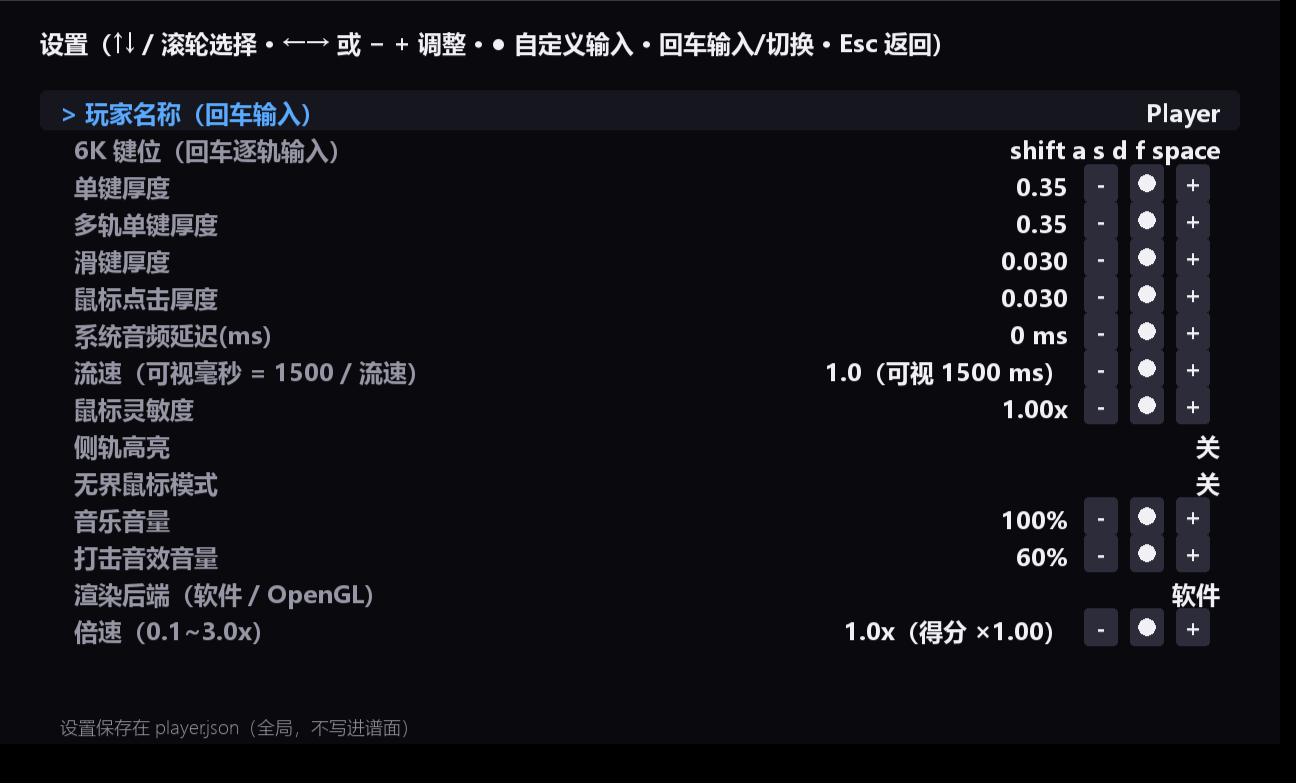
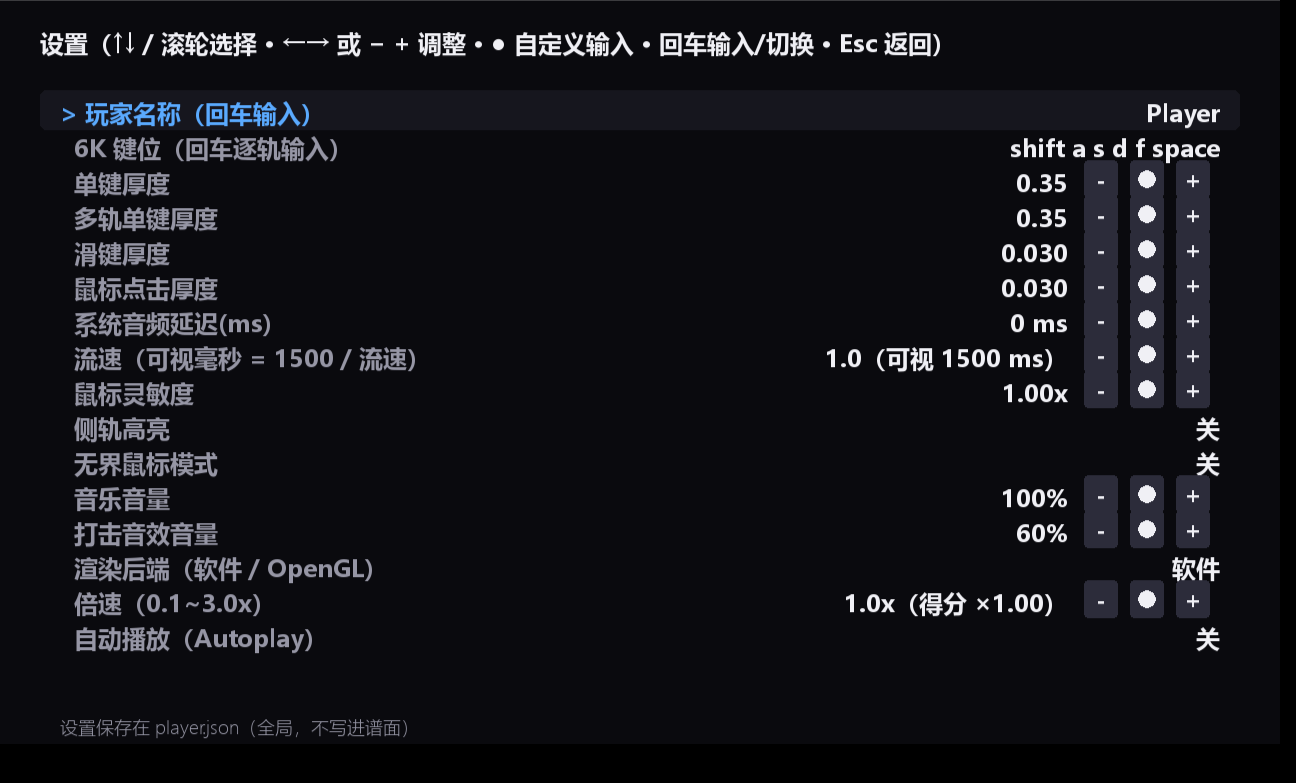
feat(player): 自动播放（玩家名 Autoplay / 输入只做高亮与指针 / 过线全 EXACT / 分数倍率 -1x）+ 结算显示准度（三位小数）

Changed region(s): [[0.0309, 0.1533, 0.3395, 0.8582], [0.6173, 0.1839, 0.9568, 0.8276]]

diff --git a/src/rhythm_editor/game/app.py b/src/rhythm_editor/game/app.py
@@ -665,6 +665,7 @@ class PlayerApp:
         ("hit_volume", "打击音效音量"),
         ("renderer", "渲染后端（软件 / OpenGL）"),
         ("rate", "倍速（0.1~3.0x）"),
+        ("autoplay", "自动播放（Autoplay）"),
     )
     # 数字类选项（有 − / ● / + 三个按钮；点 ● 可以自定义输入）：字段名 -> (最小, 最大, 步进)
     NUMERIC_ROWS = {
@@ -679,7 +680,7 @@ class PlayerApp:
         "hit_volume": (0.0, 1.0, 0.05),
         "rate": (psettings.RATE_MIN, psettings.RATE_MAX, psettings.RATE_STEP),
     }
-    TOGGLE_ROWS = ("side_lane_highlight", "unbounded_mouse")
+    TOGGLE_ROWS = ("side_lane_highlight", "unbounded_mouse", "autoplay")
 
     def _row_key(self, index: Optional[int] = None) -> str:
         return self.SETTING_ROWS[self.settings_row if index is None else index][0]
@@ -724,6 +725,8 @@ class PlayerApp:
             return f"{s.hit_volume * 100:.0f}%"
         if key == "renderer":
             return "OpenGL（切换即生效）" if s.renderer == "opengl" else "软件"
+        if key == "autoplay":
+            return "开（判定全 EXACT · 分数 ×-1）" if s.autoplay else "关"
         return f"{s.rate:.1f}x（得分 ×{s.rate ** 1.5:.2f}）"
 
     def _event_settings(self, event) -> None:
@@ -969,7 +972,9 @@ class PlayerApp:
     # ------------------------------------------------------------ 游玩
     def _start_play(self) -> None:
         assert self.chart is not None
-        self.judge = Judge(self.chart, rate=self.settings.rate)
+        self.judge = Judge(
+            self.chart, rate=self.settings.rate, autoplay=self.settings.autoplay
+        )
         self.pressed_lanes.clear()
         self.paused = False
         self.ending = False
@@ -1060,8 +1065,10 @@ class PlayerApp:
                 if event.key == key_code(name)
             ]
             if matched:
-                # 同一个键绑了多条轨道时都算按下，但**一次按键最多判一个**物件
+                # 同一个键绑了多条轨道时都算按下（自动播放时只用于轨道高亮）
                 self.pressed_lanes.update(matched)
+                if self.settings.autoplay:
+                    return                    # 自动播放：输入不参与判定
                 now = self._now_ms()
                 for lane in matched:
                     result = self.judge.on_press(now, lane=lane)
@@ -1085,7 +1092,7 @@ class PlayerApp:
                     self.pressed_lanes.discard(lane)
         elif event.type == pygame.MOUSEBUTTONDOWN:
             # 鼠标点击按键：**左右键都可以**（滚轮 4/5 不算）
-            if event.button in (1, 3):
+            if event.button in (1, 3) and not self.settings.autoplay:
                 self._register(self.judge.on_press(self._now_ms(), x=self.mouse_norm))
 
     def _register(self, result) -> None:
@@ -1099,6 +1106,10 @@ class PlayerApp:
             note = self.judge.notes.get(getattr(result, "note_id", ""))
         x, y = self._popup_anchor(note)
         self.popups.append((result.grade, result.grade, 0.7, x, y))
+
+    def _player_label(self) -> str:
+        """玩家名：开启自动播放时显示为 ``Autoplay``。"""
+        return "Autoplay" if self.settings.autoplay else self.settings.player_name
 
     def _popup_anchor(self, note: Optional[Note]) -> Tuple[float, float]:
         """判定飘字锚点：单键 / 多轨在 6K 线上，鼠标物件在鼠标线上（瞬时物件也要有字符）。"""
@@ -1137,7 +1148,8 @@ class PlayerApp:
             assert self.judge is not None
             now_ms = self._now_ms()
             # 滑键是在鼠标移动时判定的：返回值必须登记，否则滑键没有判定文字 / 音效
-            self._register(self.judge.on_move(now_ms, self.mouse_norm))
+            if not self.settings.autoplay:
+                self._register(self.judge.on_move(now_ms, self.mouse_norm))
             for result in self.judge.update(
                 now_ms, inside_hold=self._inside_region(now_ms), held=set(self.pressed_lanes)
             ):
@@ -1415,7 +1427,7 @@ class PlayerApp:
         self.center_text(f"{meta.title} · {meta.artist}", 240, self.f_mid, WHITE)
         self.center_text(f"难度：{meta.difficulty_name} {meta.difficulty_level}", 280, self.f_small, DIM)
         self.center_text(f"初始 BPM：{self.chart.timing.bpm_at(0.0):.2f}", 310, self.f_small, DIM)
-        self.center_text(f"玩家：{self.settings.player_name}", 340, self.f_small, ACCENT)
+        self.center_text(f"玩家：{self._player_label()}", 340, self.f_small, ACCENT)
         self.center_text("第 0 拍将在 1.5 秒后到达判定平面", 400, self.f_small, DIM)
 
     # -------------------------------------------------- 3D 世界与物件
@@ -1883,14 +1895,14 @@ class PlayerApp:
         left_lines = (
             f"{meta.title} · {meta.artist}",
             f"难度 {meta.difficulty_name} {meta.difficulty_level} · BPM {self.chart.timing.bpm_at(beat):.2f}",
-            f"玩家 {self.settings.player_name}",
+            f"玩家 {self._player_label()}",
         )
         for index, line in enumerate(left_lines):
             self.text(line, (24, 16 + index * 26), self.f_small, WHITE if index == 0 else DIM)
         counts = self.judge.counts
         right_lines = (
-            f"准度 {self.judge.accuracy * 100:.1f}% · 倍速 {self.settings.rate:.1f}x",
-            f"分数 {self.judge.score}（×{self.settings.rate ** 1.5:.2f}）",
+            f"准度 {self.judge.accuracy * 100:.3f}% · 倍速 {self.settings.rate:.1f}x",
+            f"分数 {self.judge.score}（×{self.judge.score_multiplier:.2f}）",
             f"连击 {self.judge.combo}（最大 {self.judge.max_combo}）",
             "  ".join(f"{grade} {counts[grade]}" for grade in GRADES),
         )
@@ -1917,7 +1929,7 @@ class PlayerApp:
             meta.title,
             meta.artist,
             f"{meta.difficulty_name} {meta.difficulty_level}",
-            f"玩家：{self.settings.player_name}",
+            f"玩家：{self._player_label()}",
         )
         for index, line in enumerate(left_lines):
             self.text(line, (40, 140 + index * 34), self.f_mid, WHITE if index == 0 else DIM)
@@ -1943,7 +1955,7 @@ class PlayerApp:
             ACCENT,
         )
         self.text(
-            f"判定数：{self.judge.judged_notes} / {self.judge.total_notes}",
+            self._result_accuracy_line(),
             (split + 40, 258),
             self.f_small,
             DIM,
@@ -1989,8 +2001,15 @@ class PlayerApp:
         return f"最大连击：{self.judge.max_combo} / {self.judge.total_notes}"
 
     def _result_rate_line(self) -> str:
-        """倍速 —— 放在最大连击后面。"""
+        """倍速（自动播放时注明分数倍率 -1x）—— 放在最大连击后面。"""
+        if self.settings.autoplay:
+            return f"倍速：{self.settings.rate:.1f}x（Autoplay · 分数倍率 -1x）"
         return f"倍速：{self.settings.rate:.1f}x"
+
+    def _result_accuracy_line(self) -> str:
+        """准度（取代原来的“判定数 a / 总数”）。"""
+        assert self.judge is not None
+        return f"准度：{self.judge.accuracy * 100:.3f}%"
 
     def _event_result(self, event) -> None:
         if event.type == pygame.MOUSEMOTION:

diff --git a/src/rhythm_editor/game/judge.py b/src/rhythm_editor/game/judge.py
@@ -110,11 +110,19 @@ class _IntervalState:
 class Judge:
     """一张谱面的判定状态机（按“听到的歌曲毫秒”推进）。"""
 
-    def __init__(self, chart: Chart, hit_sound=None, rate: float = 1.0) -> None:
+    def __init__(
+        self,
+        chart: Chart,
+        hit_sound=None,
+        rate: float = 1.0,
+        autoplay: bool = False,
+    ) -> None:
         self.chart = chart
         self.timing = chart.timing
         # 倍速：只影响分数倍率（分数 = 当前计分 × 倍速^1.5），不影响判定窗口
         self.rate = min(RATE_MAX, max(RATE_MIN, float(rate)))
+        # 自动播放：不吃输入，物件 / 判定区间完全过线时自动判 EXACT；分数倍率固定 -1
+        self.autoplay = bool(autoplay)
         self.results: List[Judged] = []
         self.notes: Dict[str, Note] = {n.id: n for n in chart.all_notes()}
         self._counts: Dict[str, int] = {g: 0 for g in GRADES}
@@ -261,8 +269,13 @@ class Judge:
 
     @property
     def score(self) -> int:
-        """最终分数 = 基础计分 × **倍速的 1.5 次方**（1.0x 时与原来一致）。"""
-        return int(round(self.base_score * (self.rate ** 1.5)))
+        """最终分数 = 基础计分 × 分数倍率（自动播放为 -1 倍）。"""
+        return int(round(self.base_score * self.score_multiplier))
+
+    @property
+    def score_multiplier(self) -> float:
+        """分数倍率：正常是倍速^1.5；**自动播放固定 -1 倍**。"""
+        return -1.0 if self.autoplay else (self.rate ** 1.5)
 
     @property
     def break_count(self) -> int:
@@ -344,6 +357,15 @@ class Judge:
             note = state.note
             if state.done:
                 continue
+            if self.autoplay:
+                # 自动播放：物件到达判定线即判 EXACT（不需要输入）
+                judge_ms = self.timing.beat_to_song_ms(getattr(note, "head_beat", 0.0))
+                if now_ms >= judge_ms:
+                    state.done = True
+                    out.append(
+                        self._judge_result(note.id, EXACT, getattr(note, "head_beat", 0.0))
+                    )
+                continue
             judge_ms = self.timing.beat_to_song_ms(getattr(note, "head_beat", 0.0))
             if now_ms - judge_ms > WINDOW_NEAR_MS and not isinstance(note, MouseSlide):
                 state.done = True
@@ -387,7 +409,11 @@ class Judge:
                 end_ms = min(end_ms, self.timing.beat_to_song_ms(state.end_beat))
             if now_ms < end_ms:
                 break
-            out.append(self._grade_interval(state, start_ms, end_ms, start_beat))
+            if self.autoplay:
+                # 自动播放：判定区间完全过线即 EXACT
+                out.append(self._judge_result(state.note.id, EXACT, start_beat))
+            else:
+                out.append(self._grade_interval(state, start_ms, end_ms, start_beat))
             state.index += 1
         return out
 

diff --git a/tests/test_game_app.py b/tests/test_game_app.py
@@ -334,6 +334,54 @@ class PlayerAppSmokeTests(unittest.TestCase):
                 app_module.time.perf_counter = original_perf
         app.settings.rate = 1.0
 
+    def test_autoplay_judges_exact_and_scores_negative(self) -> None:
+        """自动播放：玩家名显示 Autoplay、输入不判定（只高亮）、过线全 EXACT、分数倍率 -1x。"""
+        from rhythm_editor.game.app import key_code
+        from rhythm_editor.model.notes import LaneNote, MouseClick
+
+        app = self.app
+        app.settings_row = app._row_index("autoplay")
+        app._adjust_setting(1)
+        self.assertTrue(app.settings.autoplay, "设置里可以开启自动播放")
+        app._enter_loading()
+        chart = app.chart
+        app._start_play()
+        self.assertTrue(app.judge.autoplay)
+        self.assertEqual(app._player_label(), "Autoplay")
+        # 键盘输入不再判定，但轨道高亮照常
+        tap = next(n for n in chart.all_notes() if isinstance(n, LaneNote) and not n.is_hold)
+        hit_ms = chart.timing.beat_to_song_ms(tap.head_beat)
+        app._now_ms = lambda: hit_ms - 500.0          # 提前按，依然不该判
+        pygame = self.pygame
+        app._event_play(
+            pygame.event.Event(pygame.KEYDOWN, key=key_code(app.settings.keys[tap.lane_start]), unicode="")
+        )
+        self.assertIn(tap.lane_start, app.pressed_lanes, "轨道高亮仍然要有")
+        self.assertEqual(app.judge.judged_notes, 0, "自动播放时键盘不参与判定")
+        app._event_play(
+            pygame.event.Event(pygame.MOUSEBUTTONDOWN, button=1, pos=(400, 300))
+        )
+        self.assertEqual(app.judge.judged_notes, 0, "自动播放时鼠标点击不参与判定")
+        # 时间推到曲末：所有物件 / 区间自动 EXACT
+        last_ms = max(
+            chart.timing.beat_to_song_ms(getattr(n, "tail_beat", n.head_beat))
+            for n in chart.all_notes()
+        )
+        app._now_ms = lambda: last_ms + 5000.0
+        app._update(1 / 120)
+        self.assertEqual(app.judge.counts["Break"], 0)
+        self.assertEqual(app.judge.counts["EXACT"], app.judge.total_notes)
+        self.assertEqual(app.judge.score, -app.judge.base_score)
+        self.assertAlmostEqual(app.judge.score_multiplier, -1.0)
+        # 结算页：倍速行注明 -1x，判定数换成准度
+        app._finish()
+        self.assertIn("-1x", app._result_rate_line())
+        self.assertIn("准度", app._result_accuracy_line())
+        self.assertRegex(app._result_accuracy_line(), r"准度：\d+\.\d{3}%", "准度保留三位小数")
+        self.assertEqual(app._player_label(), "Autoplay")
+        app._draw()
+        app.settings.autoplay = False
+
     def test_prompt_accepts_text_input_and_key_capture(self) -> None:
         """文字输入走 TEXTINPUT（中文可输入）；键位改为“按下想设的键”。"""
         app = self.app

diff --git a/tests/test_game_judge.py b/tests/test_game_judge.py
@@ -179,6 +179,26 @@ class RegionJudgeTests(unittest.TestCase):
 
 
 class ScoreTests(unittest.TestCase):
+    def test_autoplay_scores_negative_and_judges_exact(self) -> None:
+        """自动播放：完全过线即 EXACT（含区间），分数倍率固定 -1x。"""
+        chart = make_chart([LaneNote("L1", 0, 0, 2.0), MouseClick("M1", 2.0, 0.5, 0.1)])
+        judge = Judge(chart, autoplay=True)
+        self.assertTrue(judge.autoplay)
+        self.assertAlmostEqual(judge.score_multiplier, -1.0)
+        hit_ms = chart.timing.beat_to_song_ms(2.0)
+        judge.update(0.0)
+        self.assertEqual(judge.judged_notes, 0, "还没到判定时间不该提前判")
+        judge.update(hit_ms)
+        self.assertEqual(judge.counts[EXACT], 2, "物件过线即 EXACT（不需要输入）")
+        self.assertEqual(judge.counts[BREAK], 0)
+        self.assertEqual(judge.score, -judge.base_score)
+        # 长按 / 空域的每个判定区间也全部 EXACT
+        chart2 = make_chart([LaneNote("H1", 0, 0, 0.0, 3.0), MouseRegion("R1", 0.0, 3.0)])
+        judge2 = Judge(chart2, autoplay=True)
+        judge2.update(chart2.timing.beat_to_song_ms(8.0))
+        self.assertEqual(judge2.counts[EXACT], judge2.total_notes)
+        self.assertEqual(judge2.counts[BREAK], 0)
+
     def test_score_scales_with_rate_to_the_1_5(self) -> None:
         """分数 = 基础计分 × 倍速^1.5（1.0x 不变，0.5x 约 0.354 倍）。"""
         chart = make_chart([LaneNote("L1", 0, 0, 1.0)])

diff --git a/src/rhythm_editor/game/settings.py b/src/rhythm_editor/game/settings.py
@@ -41,6 +41,7 @@ class PlayerSettings:
     unbounded_mouse: bool = False         # 无界鼠标：实际位置即判定位置
     renderer: str = "software"            # software / opengl
     rate: float = 1.0                     # 游玩倍速 0.1 ~ 3.0x（每 0.1 一档）
+    autoplay: bool = False                # 自动播放（判定全 EXACT，分数倍率 -1x）
     music_volume: float = 1.0
     hit_volume: float = 0.6
     recent: List[str] = field(default_factory=list)     # 最近打开的谱面（最多 8 条）
@@ -65,6 +66,7 @@ class PlayerSettings:
         self.player_name = (self.player_name or "Player")[:24]
         if self.renderer not in ("software", "opengl"):
             self.renderer = "software"
+        self.autoplay = bool(self.autoplay)
         unique: List[str] = []
         for path in self.recent:
             text = str(path)
@@ -99,6 +101,7 @@ class PlayerSettings:
             unbounded_mouse=bool(data.get("unbounded_mouse", False)),
             renderer=str(data.get("renderer", "software")),
             rate=float(data.get("rate", 1.0)),
+            autoplay=bool(data.get("autoplay", False)),
             music_volume=float(data.get("music_volume", 1.0)),
             hit_volume=float(data.get("hit_volume", 0.6)),
             recent=list(data.get("recent", [])),  # type: ignore[arg-type]

diff --git a/docs/VERIFICATION.md b/docs/VERIFICATION.md
@@ -113,7 +113,7 @@ python tools/check_audio.py
 
 | 项目 | 命令 | 结果 |
 | --- | --- | --- |
-| 单元测试（含 Tk 画布冒烟测试、应用级测试与游玩器测试） | `python -m unittest discover -s tests -t .` | Ran 332 tests — **OK**（含滑键渐变 / 结算显示倍速 / 流速与倍速解耦 / 滑键判定文字 / 剔除阈值与跨度一致 / 鼠标平面蓝底渐变） |
+| 单元测试（含 Tk 画布冒烟测试、应用级测试与游玩器测试） | `python -m unittest discover -s tests -t .` | Ran 334 tests — **OK**（含滑键渐变 / 结算显示倍速 / 流速与倍速解耦 / 滑键判定文字 / 剔除阈值与跨度一致 / 鼠标平面蓝底渐变） |
 | 需求验收清单 | `python tools/acceptance.py` | 18 项全部 `[OK ]`，结论：全部通过（含游玩器 4 项） |
 | 音频后端 | `python tools/check_audio.py` | 9 项全部 `[OK ]`（pygame.mixer 真实播放，延迟补偿正确） |
 | 示例谱面生成 | `python run_editor.py --make-demo` | 生成 `charts/demo/demo.json`（6K 32 / 区域 3 / 滑键 6 / 点击按键 4 / 4 个速度组） |
@@ -209,10 +209,10 @@ python tools/check_audio.py
 | `tests/test_editor_smoke.py::test_drag_selected_note_moves_time_and_lane` | 编辑器拖拽移动物件：时间 + 轨道，撤销 / 重做都能还原 |
 | `tests/test_editor_smoke.py::test_drag_snaps_mouse_anchor_to_grid` | 拖动鼠标物件按**自身锚点**吸附：滑键起点 / 点击中心 / 空域起点中点，长度宽度不变 |
 | `tests/test_global_settings.py`（4 条） | **全局设置**：读写往返、损坏文件回退默认值、谱面文件不再包含 `editor` 段、老谱面的 `editor` 段只迁移一次 |
-| `tests/test_game_judge.py`（26 条） | 游玩器判定：EXACT/Exact/Near/Break 窗口、空敲无惩罚、一次按键只判一个、**输入类型必须匹配（6K 键只判 6K、鼠标点击只判鼠标点击按键）**、滑键吸附最好等级、空域半拍区间、长按“抬起事件 + 末 50ms 宽限（跨区间）”、多轨长按“所有行同时抬起才算抬起”、准度与分数公式、分数 × 倍速^1.5、连击与最大连击 |
+| `tests/test_game_judge.py`（27 条） | 游玩器判定：EXACT/Exact/Near/Break 窗口、空敲无惩罚、一次按键只判一个、**输入类型必须匹配（6K 键只判 6K、鼠标点击只判鼠标点击按键）**、滑键吸附最好等级、空域半拍区间、长按“抬起事件 + 末 50ms 宽限（跨区间）”、多轨长按“所有行同时抬起才算抬起”、准度与分数公式、分数 × 倍速^1.5、连击与最大连击 |
 | `tests/test_game_scene.py`（9 条） | 游玩器 3D 布局：1 单位 = 鼠标合法区宽 = 6K 中间四轨；鼠标平面高 0.4；两条判定线位置；近大远小；起点在屏幕上方；**游玩区铺满窗口（竖直 ≥85%、水平居中、换尺寸重算）** |
 | `tests/test_game_settings.py`（9 条） | 游玩器设置：默认键位、范围夹取、**流速 ↔ 可视毫秒（1500/n）与老 `scroll_ms` 迁移**、键位补齐、全局读写与损坏回退、最近打开列表去重与上限、渲染后端设置（含非法值回退） |
-| `tests/test_game_app.py`（38 条） | 游玩器 GUI 冒烟（headless）：主界面 → 加载 → 游玩 → 结算、鼠标映射、设置全局保存、轨道高亮与判定飘字、音量与暂停、谱面列表元数据与最近打开、渲染后端切换与回退、倍速（含上限 3x 与分数 ×3^1.5）、charts/ “每个含 json 的文件夹算一张谱面”、没有谱面时也能进设置、打开其他路径的 JSON、判定时刻过去的物件不再绘制、首拍 1.5 秒引导且音乐同步、文本输入走 TEXTINPUT / 键位按键捕获、鼠标可操作主界面 / 设置 / 结算、轨道键优先于界面快捷键（空格 = 第 6 轨）、GL 呈现异常时自动回退软件渲染、`--software` 命令行强制后端、流速行 − ● +、四种物件厚度互相独立、结算页 1/3 + 2/3、窗口尺寸变化不重建显示表面 + F10 / F11、远于可视范围的物件不绘制、每帧 poll 音频后端、短暂无声不立刻结束、远白线更细（透视缩放）、判定字符出现在被判定的物件处（含瞬时物件）、滑键渐变 + 鼠标点击菱形渐变（中间最厚最实、两端尖而淡）+ 线全红 + 鼠标指针躺在鼠标平面内且矮胖、结算最大连击 x / 总数 + 倍速、F11 循环 窗口 / 无边框全屏 / 独占全屏、鼠标指针实心 / 边线规则、滑键厚度与透明度渐变、流速与倍速解耦（1x/0.5x/0.1x/3x 跨度一致）、鼠标点击左右键可判 / 滚轮不判、鼠标平面改成蓝底渐变（无左右边线，靠近判定线略蓝、轨道尽头完全透明）、滑键判定有飘字与打击音（回归）、剔除阈值与可视跨度一致（0.5x 不堆积 / 3x 从轨道尽头出现）、鼠标平面渐变实测（判定线 (36,56,97) → 尽头 (24,26,37)，相邻行跳变 ≤2）、侧轨 / 按下高亮在鼠标平面下方（绘制顺序断言）、**开局引导恒为 1.5 秒真实时间（0.5x/1x/2x/3x）且开局无物件过线** |
+| `tests/test_game_app.py`（41 条） | 游玩器 GUI 冒烟（headless）：主界面 → 加载 → 游玩 → 结算、鼠标映射、设置全局保存、轨道高亮与判定飘字、音量与暂停、谱面列表元数据与最近打开、渲染后端切换与回退、倍速（含上限 3x 与分数 ×3^1.5）、charts/ “每个含 json 的文件夹算一张谱面”、没有谱面时也能进设置、打开其他路径的 JSON、判定时刻过去的物件不再绘制、首拍 1.5 秒引导且音乐同步、文本输入走 TEXTINPUT / 键位按键捕获、鼠标可操作主界面 / 设置 / 结算、轨道键优先于界面快捷键（空格 = 第 6 轨）、GL 呈现异常时自动回退软件渲染、`--software` 命令行强制后端、流速行 − ● +、四种物件厚度互相独立、结算页 1/3 + 2/3、窗口尺寸变化不重建显示表面 + F10 / F11、远于可视范围的物件不绘制、每帧 poll 音频后端、短暂无声不立刻结束、远白线更细（透视缩放）、判定字符出现在被判定的物件处（含瞬时物件）、滑键渐变 + 鼠标点击菱形渐变（中间最厚最实、两端尖而淡）+ 线全红 + 鼠标指针躺在鼠标平面内且矮胖、结算最大连击 x / 总数 + 倍速、F11 循环 窗口 / 无边框全屏 / 独占全屏、鼠标指针实心 / 边线规则、滑键厚度与透明度渐变、流速与倍速解耦（1x/0.5x/0.1x/3x 跨度一致）、鼠标点击左右键可判 / 滚轮不判、鼠标平面改成蓝底渐变（无左右边线，靠近判定线略蓝、轨道尽头完全透明）、滑键判定有飘字与打击音（回归）、剔除阈值与可视跨度一致（0.5x 不堆积 / 3x 从轨道尽头出现）、鼠标平面渐变实测（判定线 (36,56,97) → 尽头 (24,26,37)，相邻行跳变 ≤2）、侧轨 / 按下高亮在鼠标平面下方（绘制顺序断言）、开局引导恒为 1.5 秒真实时间（0.5x/1x/2x/3x）且开局无物件过线、**自动播放（玩家名 Autoplay / 输入不判定只高亮 / 过线全 EXACT / 分数倍率 -1x / 结算准度三位小数）** |
 
 | 低倍速实测（真实音频，跑真机 20 秒） | 0.5x / 0.1x 下逐帧 `_update` + `audio.poll()` | 0.5x：真实 20s → 歌曲 9.76s、`playing=True` 全程；0.1x：真实 12s → 歌曲 1.15s、`playing=True`；修复前只播完第一段窗口就停 |
 | 慢放接力实测（真实音频） | 0.5x 跑 20 秒并记录 `Channel.get_sound()` 顺序 | 交出 `(0,4000)(4000,8000)(8000,12000)(12000,16000)`，实播 `(0,4000)@0s → (4000,8000)@8.04s → (8000,12000)@16.03s`，**没有被顶掉的窗口** |

diff --git a/CHANGELOG.md b/CHANGELOG.md
@@ -1,5 +1,27 @@
 # 更新日志
 
+## 0.3.18 — 自动播放（Autoplay）+ 结算显示准度
+
+### 自动播放
+
+* 设置里新增 **「自动播放（Autoplay）」**（开关，存 `player.json`）。
+* 开启后：
+  * **玩家名称显示为 `Autoplay`**（加载页 / HUD / 结算页都是）；
+  * **分数倍率固定 -1x**：`分数 = round(基础计分 × (-1))`，即负分（HUD 与结算的倍率都显示 -1.00）；
+  * **键盘 / 鼠标输入仍然接收**，但只产生**轨道高亮 / 指针位置**的视觉反馈，不参与判定
+    （按 `-` `=` 调倍速、`Esc` 暂停、鼠标指针移动等功能照常）；
+  * **所有物件与判定区间完全经过判定线时自动判 EXACT**：
+    单键 / 多轨单键 / 滑键 / 鼠标点击按键在到达判定线时判 EXACT，
+    长按与空域的每个半拍区间在区间结束时判 EXACT。
+* 实测整张示例谱面（79 个判定）：`EXACT 79 / Exact 0 / Near 0 / Break 0`、准度 100%、
+  分数 `-100000079`、分数倍率 -1.00。
+
+### 结算页
+
+* **「判定数 a / 总数」改为「准度 xx.x%」**（最大连击仍按「最大连击 / 总判定数」显示）。
+  准度**保留三位小数**（HUD 上的准度同样改成三位小数）。
+* 自动播放时「倍速」那一行会注明 `（Autoplay · 分数倍率 -1x）`。
+
 ## 0.3.17 — 开局 1.5 秒引导不受倍速影响 / 高倍速不再“开头物件已过线”
 
 * **根因**：引导时间按**歌曲毫秒**算（`LEAD_MS` 直接减在歌曲时间上），而判定时钟按倍速推进，
